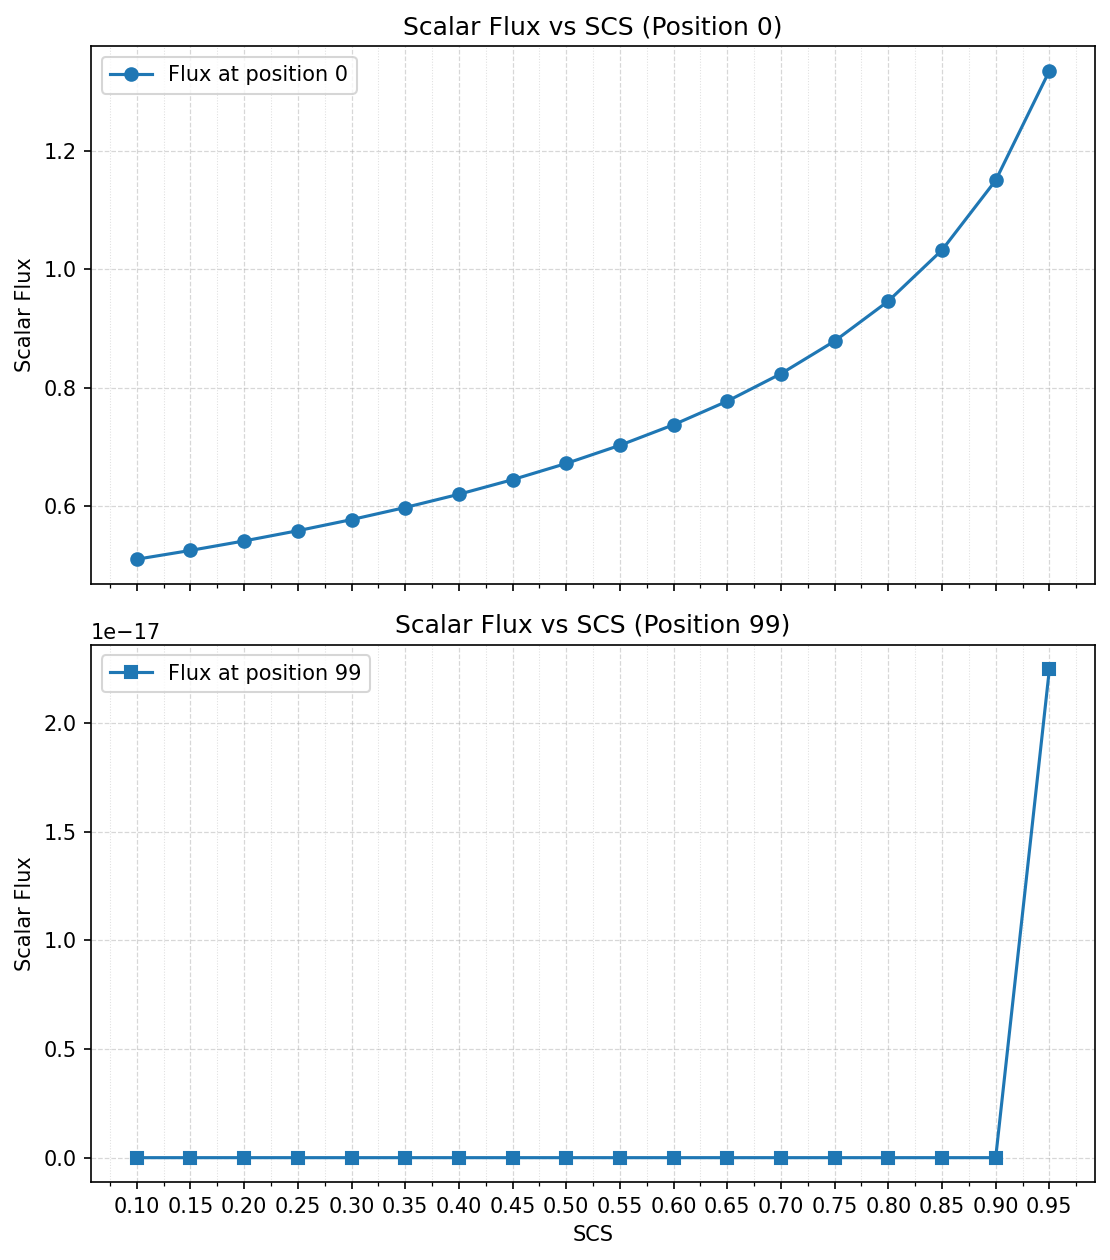
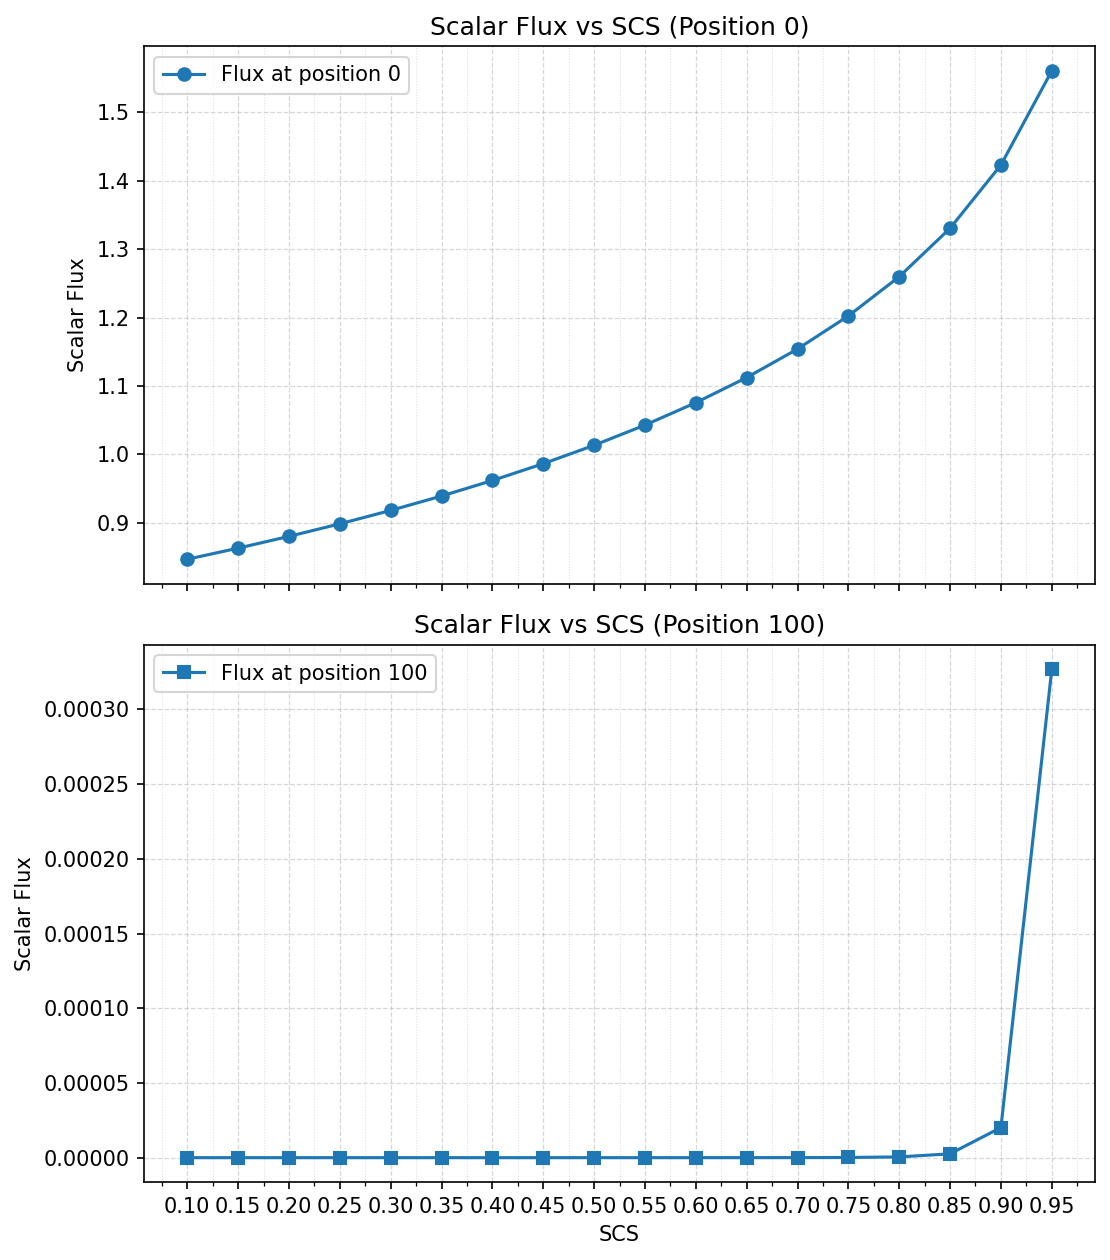
feat: Enriquecido el ouput con los results.

diff --git a/outputs/inputs/inputs.py b/outputs/inputs/inputs.py
@@ -1,7 +1,7 @@
-config_dict_001 = {'HR': [100],
+config_dict_001 = {'HR': [20],
  'IZL': [1],
  'N': 4,
- 'NC': [20],
+ 'NC': [101],
  'Q': [0],
  'SCS': [0.1],
  'SCT': [1.0],
@@ -12,10 +12,10 @@ config_dict_001 = {'HR': [100],
  'reflex_der': False,
  'reflex_izq': False}
 
-config_dict_002 = {'HR': [100],
+config_dict_002 = {'HR': [20],
  'IZL': [1],
  'N': 4,
- 'NC': [20],
+ 'NC': [101],
  'Q': [0],
  'SCS': [0.15],
  'SCT': [1.0],
@@ -26,10 +26,10 @@ config_dict_002 = {'HR': [100],
  'reflex_der': False,
  'reflex_izq': False}
 
-config_dict_003 = {'HR': [100],
+config_dict_003 = {'HR': [20],
  'IZL': [1],
  'N': 4,
- 'NC': [20],
+ 'NC': [101],
  'Q': [0],
  'SCS': [0.2],
  'SCT': [1.0],
@@ -40,10 +40,10 @@ config_dict_003 = {'HR': [100],
  'reflex_der': False,
  'reflex_izq': False}
 
-config_dict_004 = {'HR': [100],
+config_dict_004 = {'HR': [20],
  'IZL': [1],
  'N': 4,
- 'NC': [20],
+ 'NC': [101],
  'Q': [0],
  'SCS': [0.25],
  'SCT': [1.0],
@@ -54,10 +54,10 @@ config_dict_004 = {'HR': [100],
  'reflex_der': False,
  'reflex_izq': False}
 
-config_dict_005 = {'HR': [100],
+config_dict_005 = {'HR': [20],
  'IZL': [1],
  'N': 4,
- 'NC': [20],
+ 'NC': [101],
  'Q': [0],
  'SCS': [0.3],
  'SCT': [1.0],
@@ -68,10 +68,10 @@ config_dict_005 = {'HR': [100],
  'reflex_der': False,
  'reflex_izq': False}
 
-config_dict_006 = {'HR': [100],
+config_dict_006 = {'HR': [20],
  'IZL': [1],
  'N': 4,
- 'NC': [20],
+ 'NC': [101],
  'Q': [0],
  'SCS': [0.35],
  'SCT': [1.0],
@@ -82,10 +82,10 @@ config_dict_006 = {'HR': [100],
  'reflex_der': False,
  'reflex_izq': False}
 
-config_dict_007 = {'HR': [100],
+config_dict_007 = {'HR': [20],
  'IZL': [1],
  'N': 4,
- 'NC': [20],
+ 'NC': [101],
  'Q': [0],
  'SCS': [0.4],
  'SCT': [1.0],
@@ -96,10 +96,10 @@ config_dict_007 = {'HR': [100],
  'reflex_der': False,
  'reflex_izq': False}
 
-config_dict_008 = {'HR': [100],
+config_dict_008 = {'HR': [20],
  'IZL': [1],
  'N': 4,
- 'NC': [20],
+ 'NC': [101],
  'Q': [0],
  'SCS': [0.45],
  'SCT': [1.0],
@@ -110,10 +110,10 @@ config_dict_008 = {'HR': [100],
  'reflex_der': False,
  'reflex_izq': False}
 
-config_dict_009 = {'HR': [100],
+config_dict_009 = {'HR': [20],
  'IZL': [1],
  'N': 4,
- 'NC': [20],
+ 'NC': [101],
  'Q': [0],
  'SCS': [0.5],
  'SCT': [1.0],
@@ -124,10 +124,10 @@ config_dict_009 = {'HR': [100],
  'reflex_der': False,
  'reflex_izq': False}
 
-config_dict_010 = {'HR': [100],
+config_dict_010 = {'HR': [20],
  'IZL': [1],
  'N': 4,
- 'NC': [20],
+ 'NC': [101],
  'Q': [0],
  'SCS': [0.55],
  'SCT': [1.0],
@@ -138,10 +138,10 @@ config_dict_010 = {'HR': [100],
  'reflex_der': False,
  'reflex_izq': False}
 
-config_dict_011 = {'HR': [100],
+config_dict_011 = {'HR': [20],
  'IZL': [1],
  'N': 4,
- 'NC': [20],
+ 'NC': [101],
  'Q': [0],
  'SCS': [0.6],
  'SCT': [1.0],
@@ -152,10 +152,10 @@ config_dict_011 = {'HR': [100],
  'reflex_der': False,
  'reflex_izq': False}
 
-config_dict_012 = {'HR': [100],
+config_dict_012 = {'HR': [20],
  'IZL': [1],
  'N': 4,
- 'NC': [20],
+ 'NC': [101],
  'Q': [0],
  'SCS': [0.65],
  'SCT': [1.0],
@@ -166,10 +166,10 @@ config_dict_012 = {'HR': [100],
  'reflex_der': False,
  'reflex_izq': False}
 
-config_dict_013 = {'HR': [100],
+config_dict_013 = {'HR': [20],
  'IZL': [1],
  'N': 4,
- 'NC': [20],
+ 'NC': [101],
  'Q': [0],
  'SCS': [0.7],
  'SCT': [1.0],
@@ -180,10 +180,10 @@ config_dict_013 = {'HR': [100],
  'reflex_der': False,
  'reflex_izq': False}
 
-config_dict_014 = {'HR': [100],
+config_dict_014 = {'HR': [20],
  'IZL': [1],
  'N': 4,
- 'NC': [20],
+ 'NC': [101],
  'Q': [0],
  'SCS': [0.75],
  'SCT': [1.0],
@@ -194,10 +194,10 @@ config_dict_014 = {'HR': [100],
  'reflex_der': False,
  'reflex_izq': False}
 
-config_dict_015 = {'HR': [100],
+config_dict_015 = {'HR': [20],
  'IZL': [1],
  'N': 4,
- 'NC': [20],
+ 'NC': [101],
  'Q': [0],
  'SCS': [0.8],
  'SCT': [1.0],
@@ -208,10 +208,10 @@ config_dict_015 = {'HR': [100],
  'reflex_der': False,
  'reflex_izq': False}
 
-config_dict_016 = {'HR': [100],
+config_dict_016 = {'HR': [20],
  'IZL': [1],
  'N': 4,
- 'NC': [20],
+ 'NC': [101],
  'Q': [0],
  'SCS': [0.85],
  'SCT': [1.0],
@@ -222,10 +222,10 @@ config_dict_016 = {'HR': [100],
  'reflex_der': False,
  'reflex_izq': False}
 
-config_dict_017 = {'HR': [100],
+config_dict_017 = {'HR': [20],
  'IZL': [1],
  'N': 4,
- 'NC': [20],
+ 'NC': [101],
  'Q': [0],
  'SCS': [0.9],
  'SCT': [1.0],
@@ -236,10 +236,10 @@ config_dict_017 = {'HR': [100],
  'reflex_der': False,
  'reflex_izq': False}
 
-config_dict_018 = {'HR': [100],
+config_dict_018 = {'HR': [20],
  'IZL': [1],
  'N': 4,
- 'NC': [20],
+ 'NC': [101],
  'Q': [0],
  'SCS': [0.95],
  'SCT': [1.0],

diff --git a/solvers/runners/NTS_DD_1D.py b/solvers/runners/NTS_DD_1D.py
@@ -280,7 +280,7 @@ class Runner:
         # PSI_LEFT:  neutrones viajando hacia x- (mu < 0)
         self.PSI_RIGHT = np.zeros((config.NTP, config.N_HALF))
         self.PSI_LEFT = np.zeros((config.NTP, config.N_HALF))
-
+        self.angular_flux = np.zeros((config.NTP, config.N_HALF))  # Suma de ambos
         # Flujo Escalar [Celdas]
         self.scalar_flux = np.zeros(config.NTC)
 
@@ -411,6 +411,7 @@ class Runner:
 
         # Reiniciar flujo escalar
         self.scalar_flux[:] = 0.0
+        self.angular_flux[:] = 0.0
 
         for k in range(self.config.NTC):
             suma = 0.0
@@ -425,6 +426,7 @@ class Runner:
                 # Sumamos ambas direcciones (asumiendo simetría de pesos x2 o sumando explícitamente)
                 # Si w es para todo el ángulo sólido, w_izq = w_der
                 suma += w * (psi_avg_der + psi_avg_izq)
+                self.angular_flux[k, m] = w * (psi_avg_der + psi_avg_izq)
 
             self.scalar_flux[k] = suma
 
@@ -503,11 +505,15 @@ class Runner:
         df_output = self._crear_dataframe_salida()
 
         # Guardar automáticamente en Excel
-        self._guardar_excel(df_output)
+        # self._guardar_excel(df_output)
+
+        # Suma Flujos angulares
+        self.PSI_TOTAL = self.PSI_RIGHT + self.PSI_LEFT
 
         # Retornar diccionario con resultados
         resultado = {
             "scalar_flux": self.scalar_flux,
+            "angular_flux": self.angular_flux,
             "iteration": self.iteration,
             "PSI_RIGHT": self.PSI_RIGHT,
             "PSI_LEFT": self.PSI_LEFT,

diff --git a/utils/plot_scs_flux.py b/utils/plot_scs_flux.py
@@ -27,7 +27,7 @@ def main() -> int:
 
     scs_vals = [row["SCS"] for row in rows]
     flux_0 = [row["flux_0"] for row in rows]
-    flux_99 = [row["flux_99"] for row in rows]
+    flux_100 = [row["flux_100"] for row in rows]
 
     matplotlib.use("Agg")
     import matplotlib.pyplot as plt
@@ -45,8 +45,8 @@ def main() -> int:
     axes[0].grid(True, which="minor", linestyle=":", linewidth=0.5, alpha=0.4)
     axes[0].legend()
 
-    axes[1].plot(scs_vals, flux_99, marker="s", label="Flux at position 99")
-    axes[1].set_title("Scalar Flux vs SCS (Position 99)")
+    axes[1].plot(scs_vals, flux_100, marker="s", label="Flux at position 100")
+    axes[1].set_title("Scalar Flux vs SCS (Position 100)")
     axes[1].set_xlabel("SCS")
     axes[1].set_ylabel("Scalar Flux")
     axes[1].xaxis.set_major_locator(MultipleLocator(0.05))

diff --git a/cli/commands.py b/cli/commands.py
@@ -521,6 +521,7 @@ def cmd_run_1d(args):
                     "config_name": name,
                     "configuration": cfg,
                     "scalar_flux": result["scalar_flux"].tolist(),
+                    "angular_flux": result["angular_flux"].tolist(),
                     "iteration": int(result["iteration"]),
                     "converged": bool(result["converged"]),
                     "timestamp": datetime.now().isoformat(timespec="seconds"),

diff --git a/utils/extract_1d_flux.py b/utils/extract_1d_flux.py
@@ -123,8 +123,8 @@ def main() -> int:
         "--positions",
         nargs="+",
         type=parse_position,
-        default=[0, 99],
-        help="Flux positions to extract (default: 0 99)",
+        default=[0, 100],
+        help="Flux positions to extract (default: 0 100)",
     )
     parser.add_argument(
         "--inputs",

diff --git a/outputs/inputs/inputs_placeholder.py b/outputs/inputs/inputs_placeholder.py
@@ -1,8 +1,8 @@
 config_dict = {
     "num_regions": 1,
     "num_zones": 1,
-    "NC": [20],
-    "HR": [100],
+    "NC": [101],
+    "HR": [20],
     "IZL": [1],
     "SCT": [1.0],
     "SCS": [kk],
